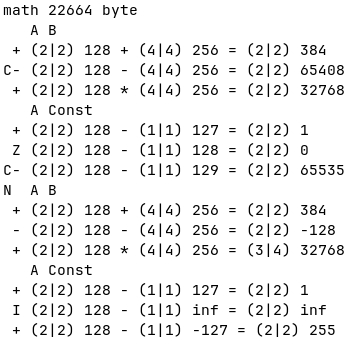
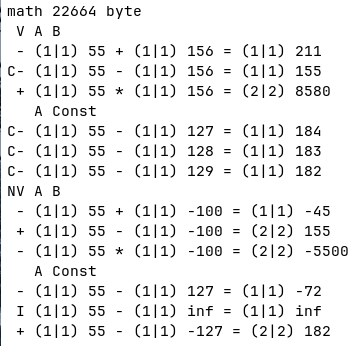
v17.0

diff --git a/math.c b/math.c
@@ -125,15 +125,15 @@ void FMUL(an r, an a, anu l, an b) { Mat.N = l; Mat.r = r; Mat.a = a; Mat.b = b;
                  Mat.C = (Mat.x > Mat.y) || (Mat.C && Mat.x == Mat.y);
                  *Mat.be++ = (Mat.k << 1) | Mat.t; Mat.t = (Mat.k & 128) ? 1:0; }
                while(Mat.j--); } Mat.nb |= Mat.t; } while(Mat.i >>= 1); } Mat.e++;
-       } while(Mat.F--); Mat.F++;
-    Mat.l = Mat.e - Mat.r; if ((Mat.N = Mat.na)) { Mat.j = Mat.l; Mat.ae = Mat.r; Mat.t = 1;
+       } while(Mat.F--); Mat.F++; Mat.l = Mat.e - Mat.r;
+    if ((Mat.N = Mat.na)) { Mat.j = Mat.l; Mat.ae = Mat.r; Mat.t = 1;
       do { Mat.t = !(*Mat.ae = ~*Mat.ae + Mat.t) && Mat.t; Mat.ae++; } while(Mat.j--); }
     while(*Mat.e-- == Mat.N  && Mat.l && (Mat.Nim ? !((*Mat.e ^ Mat.N) & 128):1)) { Mat.l--; }
     if (*++Mat.e != 128) { return; } Mat.be = Mat.e; Mat.j = Mat.l; while(Mat.j-- && !*--Mat.e);
     if (++Mat.j) { return; } if (Mat.l != 255) { if (Mat.Nim) { Mat.l++; *++Mat.be = Mat.N; }
-      return; } Mat.t = 2; } Mat.C = (!Mat.Nim && Mat.t == 2); Mat.F = !Mat.Nim ? 1:Mat.t;
-  Mat.N = (Mat.F == 1) ? 0:255; Mat.l = Mat.V ? 0:Mat.l; Mat.i = Mat.l;
-  while(Mat.i--) { *Mat.r++ = 0; } *Mat.r = Mat.N ? 128:0; }
+      return; } Mat.t = 2; } Mat.F = (Mat.C = (!Mat.Nim && Mat.t == 2)) ? 1:Mat.t; Mat.N = 0;
+  Mat.N -= (Mat.F == 2); Mat.l = Mat.V ? 0:Mat.l; Mat.i = Mat.l; while(Mat.i--) *Mat.r++ = 0;
+  *Mat.r = Mat.N & 128; }
 
 void FDIV(an r, an e, an a, anu l, an b) { Mat.N = l; Mat.r = r; Mat.a = a; Mat.b = b;
   Mat.F = Mat.l; Mat.x = *(Mat.ae = Mat.a + Mat.l); Mat.na = (Mat.Nim && (Mat.x & 128)) ? 255:0;

diff --git a/main.c b/main.c
@@ -28,5 +28,5 @@ void Const(void) { an sb; anu l, i = 2; printf("   A Const\n"); Show('c'); sb = 
 void Test(void) { printf("%c%c A B\n", Mat.Nim ? 'N':' ', Mat.V ? 'V':' '); Show('+'); Show('-'); Show('*'); /*Show('/');*/Const(); }
 
 int main(void) { anu v = 1,a[m],b[m],e[m],r[m+m]; Faddr((As)r, (As)e, (As)a, (As)b);
-  Fini(0,v); la = Fbvi(Mat.A, 126); lb = Fvi(Mat.B, -2); Test();
+  Fini(0,v); la = Fbvi(Mat.A, 55); lb = Fvi(Mat.B, -100); Test();
   Fset(1,v); la = Fmov(la, Mat.A); lb = Fmov(lb, Mat.B); Test(); return 0; }

diff --git a/README.md b/README.md
@@ -17,7 +17,7 @@
 P.s.: Блокировку убрали как только добавил сообщение о ней на главную страницу, длилась минут 20 как я заметил и принял меры чтоб сообщить об этом Вам. Это сообщение останется (20.09.2026 ~16.00 по местному +7) как память, так, что буду стараться вопреки не востребованности в России по данной области дабы остальной народ мог этим воспользоваться. Проанализируйте события с момента как я вернулся в эту сферу (конец января 2026 выложен Products готовый полностью затем занялся Fresh в начале февраля 2026), всё это время обновлялся код и было забавно видеть на open.net новости - даже компании серьёзные их как озарило - так, что у меня нет желания и времени следить за соблюдением GPLv3 из России, если заметите нарушение лицензии, то гарантировано взаимовыгодное сотрудничество.
 
 <div align="center">
-  <h1>Результат запуска v16.7</h1>
+  <h1>Результат запуска v17.0</h1>
   
   <picture>
     <source media="(prefers-color-scheme: dark)" srcset="Plus/psb.jpeg">
